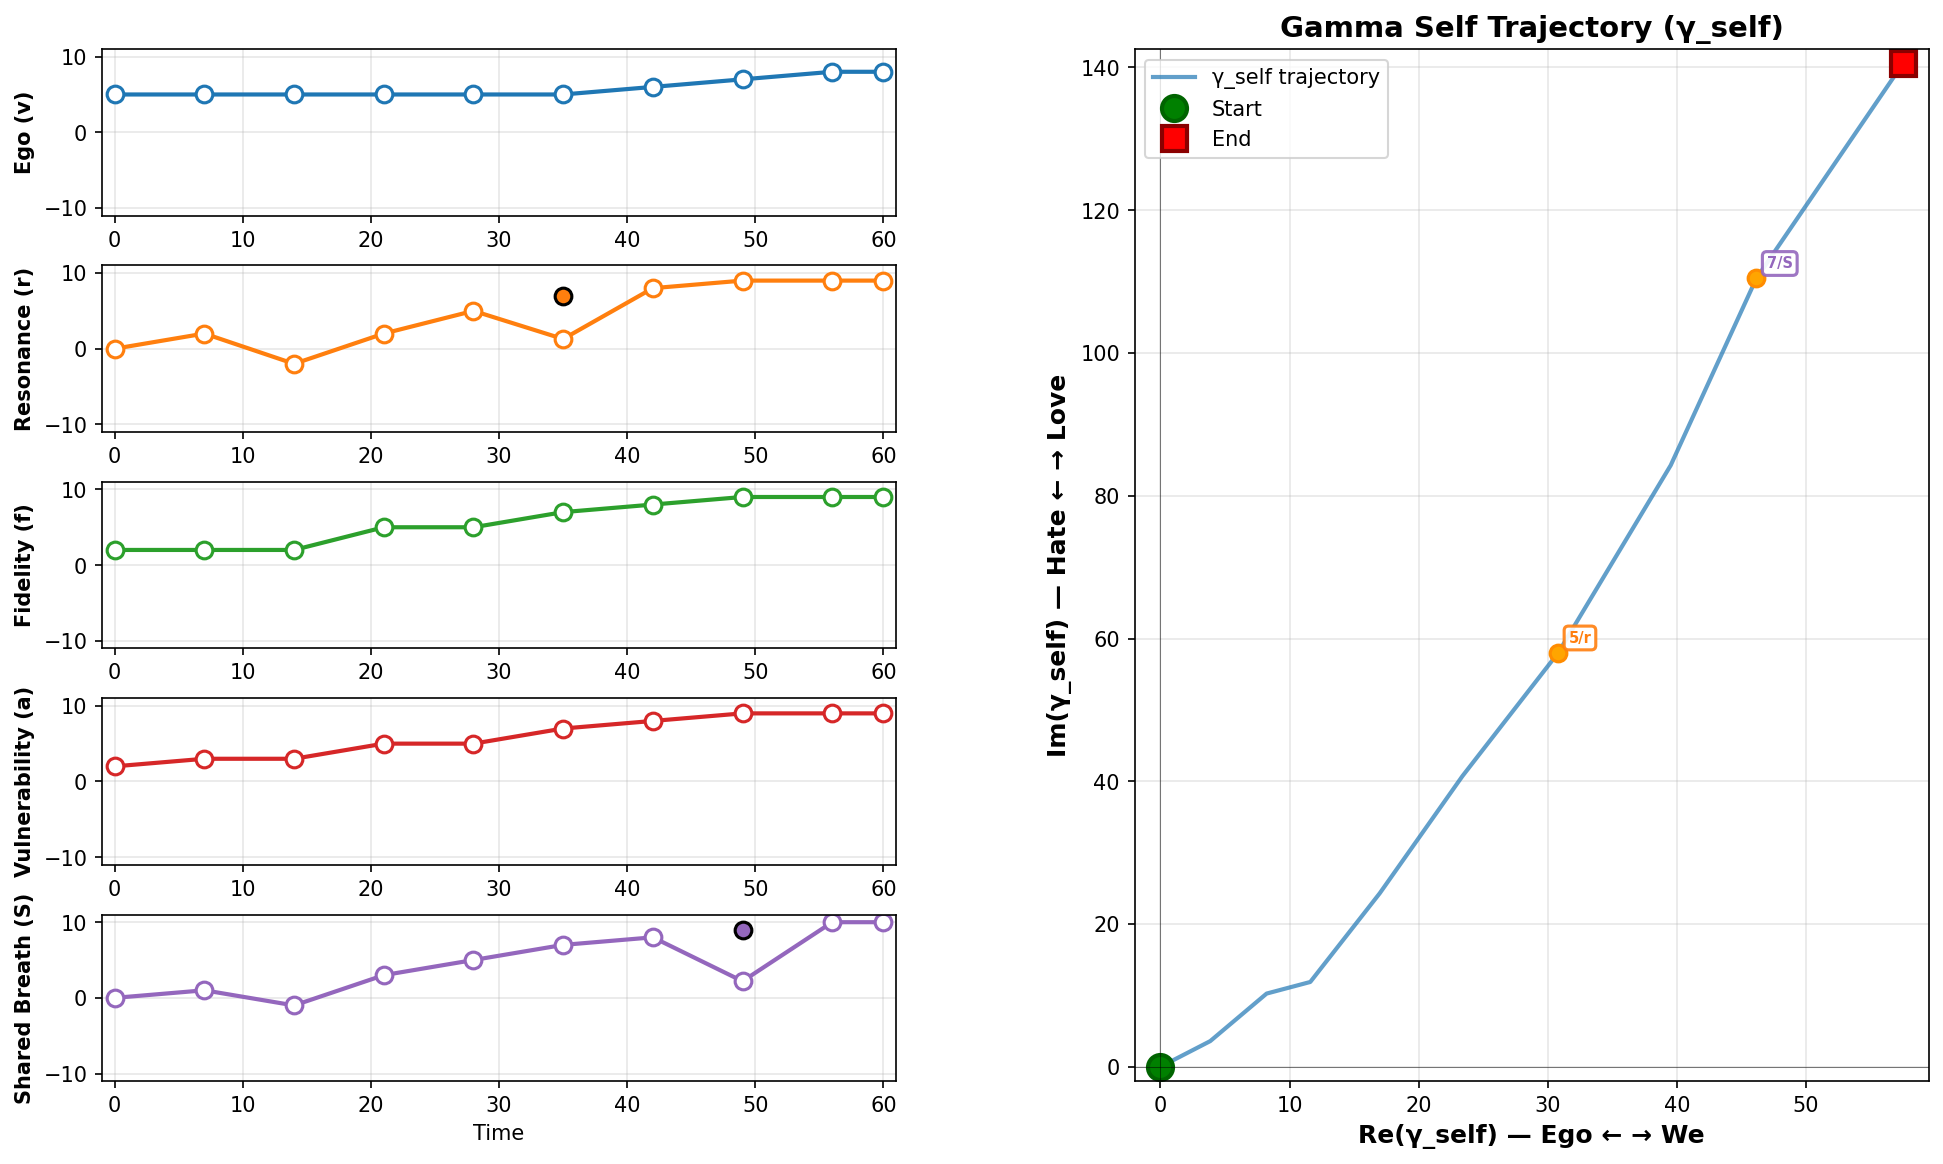
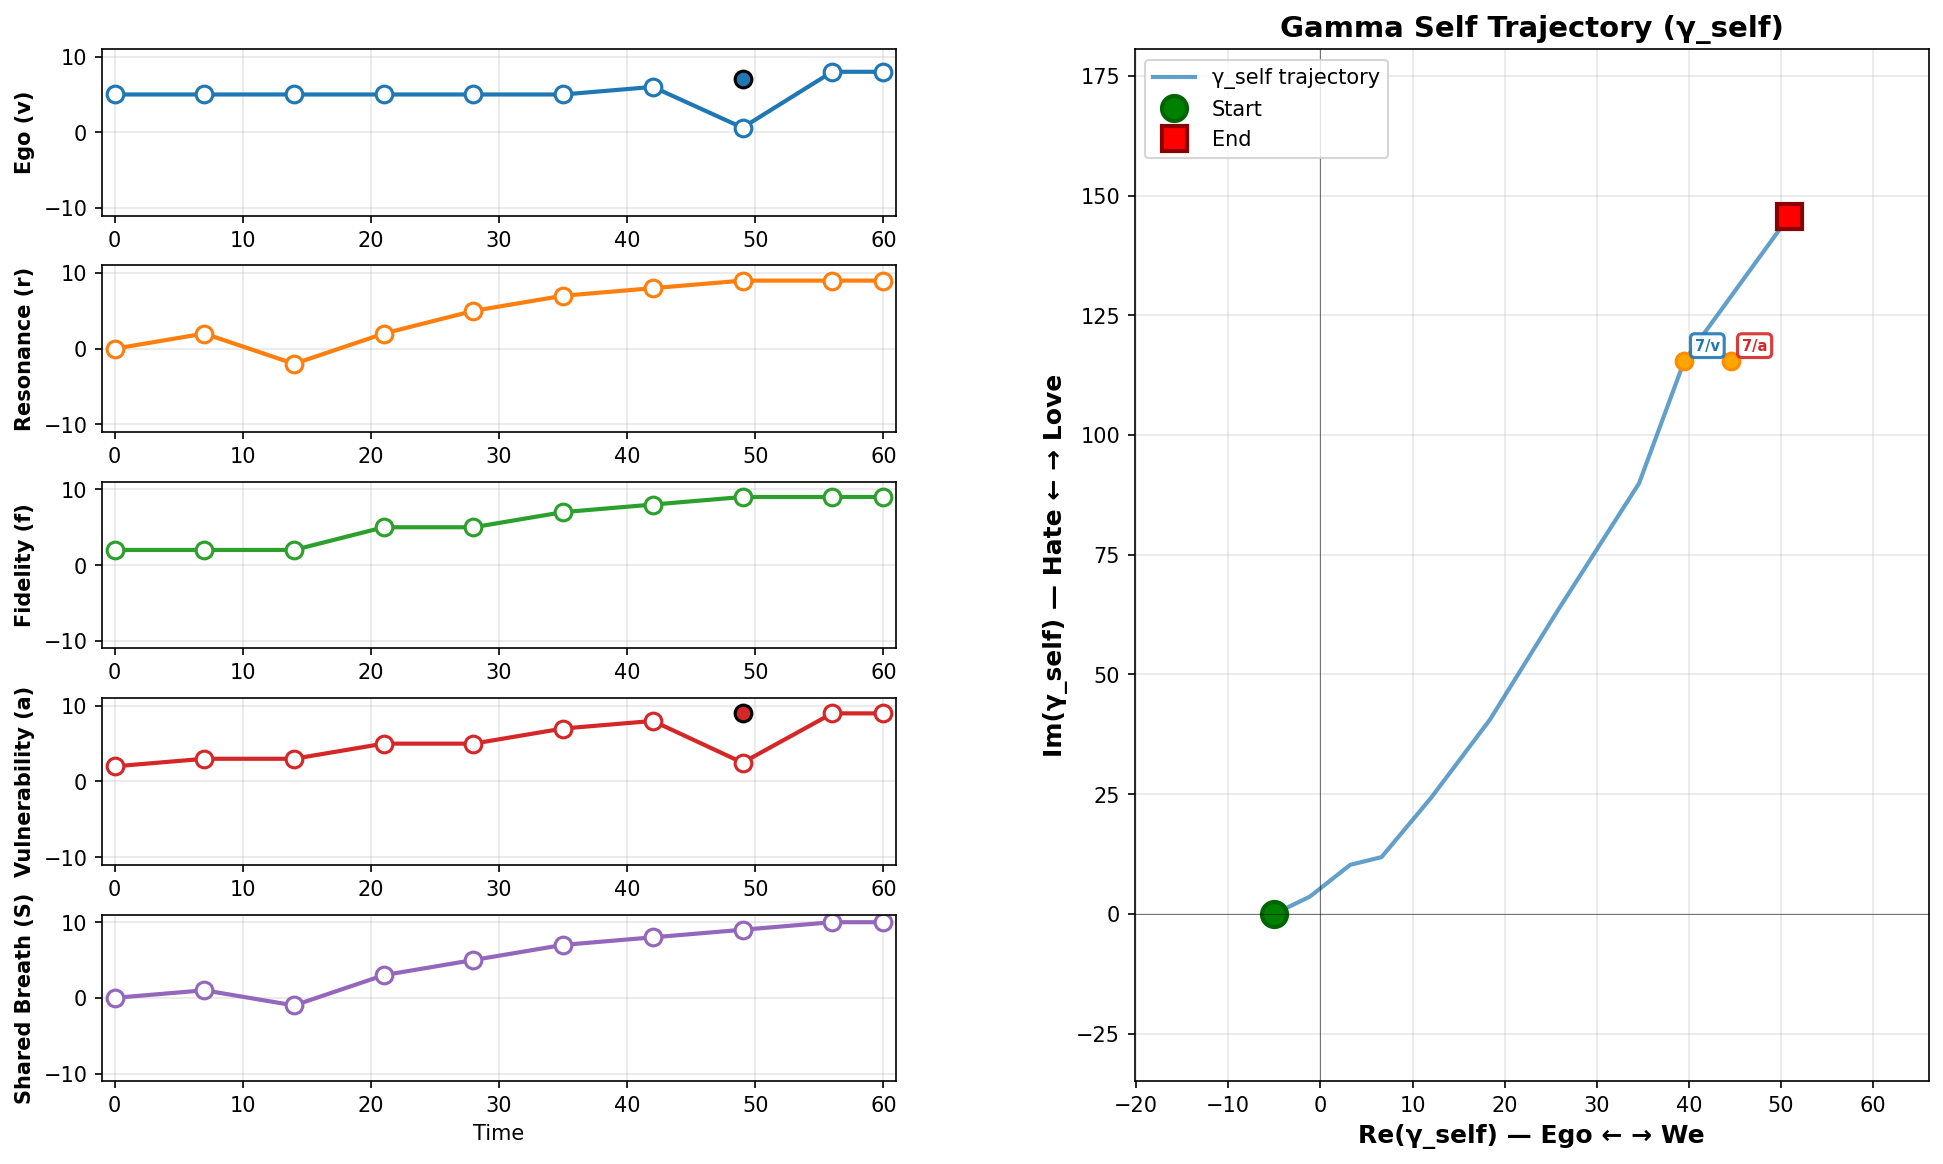
Minor corrections to interactive_editor

diff --git a/tools/editor/views/primitive_panel.py b/tools/editor/views/primitive_panel.py
@@ -11,10 +11,10 @@ from .draggable_point import DraggablePoint
 class PrimitivePanel:
     PRIMITIVE_NAMES = ['v', 'r', 'f', 'a', 'S']
     PRIMITIVE_LABELS = {
-        'v': 'Ego (v)',
+        'v': 'Visibility (v)',
         'r': 'Resonance (r)',
         'f': 'Fidelity (f)',
-        'a': 'Vulnerability (a)',
+        'a': 'Altruism (a)',
         'S': 'Shared Breath (S)'
     }
     PRIMITIVE_COLORS = {
@@ -88,6 +88,59 @@ class PrimitivePanel:
             horizontalalignment='right',
             bbox=dict(boxstyle='round,pad=0.5', facecolor='lightyellow', edgecolor='black', alpha=0.8)
         )
+        
+        # Connect click event for sampling primitive values
+        self.events_data = []  # Store events for nearest-marker lookup
+        self.fig.canvas.mpl_connect('button_press_event', self._on_click_sample)
+
+    def _on_click_sample(self, event):
+        """Handle click on primitive plot to sample value and show nearest marker."""
+        # Only handle left-click (button 1) and when not dragging
+        if event.button != 1 or not event.inaxes:
+            return
+        
+        # Check if click is on any of our primitive axes
+        clicked_prim = None
+        for prim, ax in self.axes.items():
+            if event.inaxes == ax:
+                clicked_prim = prim
+                break
+        
+        if not clicked_prim:
+            return
+        
+        # Check if clicking on a draggable point (if so, let the drag handler take over)
+        for (event_idx, prim), dp in self.draggable_points.items():
+            if prim == clicked_prim:
+                # Check if clicking near this point
+                contains_filled, _ = dp.point.contains(event)
+                contains_preview = False
+                if dp.preview_point.get_visible():
+                    contains_preview, _ = dp.preview_point.contains(event)
+                if contains_filled or contains_preview:
+                    # Let drag handler take over
+                    return
+        
+        # Not clicking on a marker - sample the value at this location
+        click_time = event.xdata
+        click_value = event.ydata
+        
+        # Find nearest event marker
+        if not self.events_data:
+            return
+        
+        nearest_event_idx = None
+        min_distance = float('inf')
+        for idx, evt in enumerate(self.events_data):
+            dist = abs(evt.time - click_time)
+            if dist < min_distance:
+                min_distance = dist
+                nearest_event_idx = idx
+        
+        # Update readout with click location and nearest marker
+        if nearest_event_idx is not None:
+            marker_id = f"{nearest_event_idx}{clicked_prim}"
+            self._update_readout(nearest_event_idx, clicked_prim, click_value)
 
     def update_from_model(self, events):
         """
@@ -95,6 +148,9 @@ class PrimitivePanel:
         Args:
             events: List of Event objects
         """
+        # Store events for click sampling
+        self.events_data = events
+        
         # Always cancel all previews before updating
         self.cancel_all_previews()
         # Debug: print modified_primitives

diff --git a/tools/editor/load_events.py b/tools/editor/load_events.py
@@ -10,9 +10,11 @@ def load_events_from_csv(filepath):
     Args:
         filepath (str): Path to CSV file.
     Returns:
-        List[Event]: List of Event objects, each with markers for primitives.
+        tuple: (List[Event], dict) - List of Event objects and metadata dict with 'gamma_self_0', 'time_unit', 'name'
     """
     events = []
+    metadata = {'gamma_self_0': 0+0j, 'time_unit': 'days', 'name': ''}
+    
     with open(filepath, 'r', newline='') as csvfile:
         # Find the actual header row
         lines = csvfile.readlines()
@@ -23,7 +25,26 @@ def load_events_from_csv(filepath):
                 break
         if header_idx is None:
             print("[DEBUG] No valid header found in CSV!")
-            return events
+            return events, metadata
+        
+        # Parse metadata rows before header
+        for idx in range(header_idx):
+            line = lines[idx].strip()
+            if ',' in line:
+                key, value = line.split(',', 1)
+                key = key.strip()
+                value = value.strip()
+                if key == 'gamma_self_0':
+                    try:
+                        metadata['gamma_self_0'] = complex(value.replace('+-', '-'))
+                        print(f"[DEBUG] Parsed gamma_self_0 = {metadata['gamma_self_0']}")
+                    except Exception as e:
+                        print(f"[DEBUG] Failed to parse gamma_self_0: {e}")
+                elif key == 'time_unit':
+                    metadata['time_unit'] = value
+                elif key == 'name':
+                    metadata['name'] = value
+        
         header = [h.strip() for h in lines[header_idx].strip().split(',')]
         print(f"[DEBUG] Using header: {header}")
         # Read data rows after header
@@ -46,4 +67,4 @@ def load_events_from_csv(filepath):
                 print(f"[DEBUG] Accepted event: time={time}, primitives={primitives}")
             except Exception as e:
                 print(f"[DEBUG] Skipping row due to error: {e}")
-    return events
+    return events, metadata

diff --git a/tools/editor/model.py b/tools/editor/model.py
@@ -95,15 +95,20 @@ class EditorModel:
         """
         from tools.editor.load_events import load_events_from_csv
         self.filepath = Path(filepath)
-        events = load_events_from_csv(filepath)
+        events, metadata = load_events_from_csv(filepath)
         print(f"[DEBUG] EditorModel.load_csv: loaded {len(events)} events from {filepath}")
+        
+        # Apply metadata to model
+        self.gamma_self_0 = metadata.get('gamma_self_0', 0+0j)
+        self.time_unit = metadata.get('time_unit', 'days')
+        if metadata.get('name'):
+            self.name = metadata['name']
+        print(f"[DEBUG] EditorModel.load_csv: gamma_self_0 = {self.gamma_self_0}")
+        
         if perspective == "M1":
             self.events_m1 = events
         else:
             self.events_m2 = events
-        # You may want to parse metadata (name, time_unit, gamma_self_0) separately as before
-        # Example: parse gamma_self_0 from metadata if present
-        # (This is a placeholder for actual metadata parsing logic)
     
     def save_csv(self, filepath: str, perspective: str = "M1") -> None:
         """

diff --git a/tools/editor/event.py b/tools/editor/event.py
@@ -27,14 +27,14 @@ class Event:
             self.markers[primitive].set_value(value, state)
     
     def to_dict(self):
-        """Convert event to dictionary for CSV export."""
+        """Convert event to dictionary for CSV export with 3-digit precision."""
         result = {
-            'day': int(self.time) if self.time == int(self.time) else self.time,
-            'v': self.markers['v'].value,
-            'r': self.markers['r'].value,
-            'f': self.markers['f'].value,
-            'a': self.markers['a'].value,
-            'S': self.markers['S'].value,
+            'day': int(self.time) if self.time == int(self.time) else round(self.time, 3),
+            'v': round(self.markers['v'].value, 3),
+            'r': round(self.markers['r'].value, 3),
+            'f': round(self.markers['f'].value, 3),
+            'a': round(self.markers['a'].value, 3),
+            'S': round(self.markers['S'].value, 3),
             'notes': self.notes if self.notes else '',
             'marker': self.marker if self.marker else '',
             'locked': self.locked if self.locked else ''

diff --git a/tools/interactive_editor.py b/tools/interactive_editor.py
@@ -394,9 +394,6 @@ class InteractiveEditor:
         """Handle keyboard shortcuts."""
         if event.key == 'ctrl+s':
             self._on_save_button(event)
-        elif event.key == 'c':
-            # Commit previews
-            self.controller.commit_changes()
         elif event.key == 'escape':
             # Cancel previews
             self.controller.cancel_changes()

diff --git a/docs/interactive_editor_user_guide.md b/docs/interactive_editor_user_guide.md
@@ -99,11 +99,10 @@ python tools/interactive_editor.py data/single_dating_to_love_M1.csv
 - Markers become **hollow** while in preview mode
 - Gamma_self trajectory updates in real-time (orange preview)
 
-### 3. Commit or Cancel Changes
+### 3. Save or Cancel Changes
 - **Click hollow marker** to continue editing from that position
 - **Double-click hollow marker** to cancel and revert to original
-- **Press 'C'** to commit all previews (hollow → filled)
-- **Press ESC** to cancel all previews
+- **Press ESC** to cancel all previews and revert to last saved state
 
 ### 4. Lock/Unlock Events
 - **Right-click** on any marker to toggle lock status
@@ -112,6 +111,7 @@ python tools/interactive_editor.py data/single_dating_to_love_M1.csv
 
 ### 5. Save Your Work
 - **Click Save button** or **Press Ctrl+S**
+- Saving automatically commits all preview changes (hollow → filled)
 - Modified events automatically marked with numbered labels
 - CSV includes `marker` and `locked` columns for persistence
 
@@ -152,7 +152,6 @@ day,v,r,f,a,S,notes,marker,locked
 ### Keyboard Shortcuts
 
 **Editing:**
-- `C` - Commit all preview changes
 - `ESC` - Cancel all preview changes
 - `G` - Edit gamma_self_0 initial position (starting point)
 
@@ -163,7 +162,7 @@ day,v,r,f,a,S,notes,marker,locked
 - `F` - Toggle fixed view mode (prevents auto-zoom during edits)
 
 **Save:**
-- `Ctrl+S` - Save (commits all previews, saves CSV)
+- `Ctrl+S` - Save (auto-commits all previews and saves CSV)
 
 ---
 
@@ -211,17 +210,17 @@ day,v,r,f,a,S,notes,marker,locked
 2. Modify single primitive at one event
 3. Observe trajectory deviation magnitude
 4. Use primitive gauge to record exact values tested
-5. Cancel (ESC) or commit (C) to test different values
+5. Cancel (ESC) to test different values, or save when satisfied
 
 ---
 
 ## Advanced Features
 
 ### Preview System
-The editor uses a sophisticated preview/commit workflow:
+The editor uses a sophisticated preview/save workflow:
 - **Preview mode:** Drag markers to see instant trajectory feedback (hollow markers)
-- **Commit mode:** Press 'C' to lock changes (hollow → filled)
-- **Pinned markers:** Committed changes pin gamma_self position on trajectory
+- **Save to commit:** Click Save button to lock changes (hollow → filled)
+- **Pinned markers:** Saved changes pin gamma_self position on trajectory
 - **Incremental editing:** Click hollow markers to continue editing from preview position
 
 ### Gamma_Self_0 Editing
@@ -250,7 +249,7 @@ When multiple primitives are modified at the same event:
 3. **Use primitive gauge** to document exact values for reproducibility  
 4. **Use gamma_self gauge** to record critical trajectory waypoints
 5. **Save frequently** - Each save creates `_modified` version, preserving original
-6. **Commit incrementally** - Press 'C' after each major change rather than editing many events at once
+6. **Save incrementally** - Save after each major change rather than editing many events at once
 7. **Export PNG** with Shift+Click to capture trajectory visualizations for reports
 
 ---
